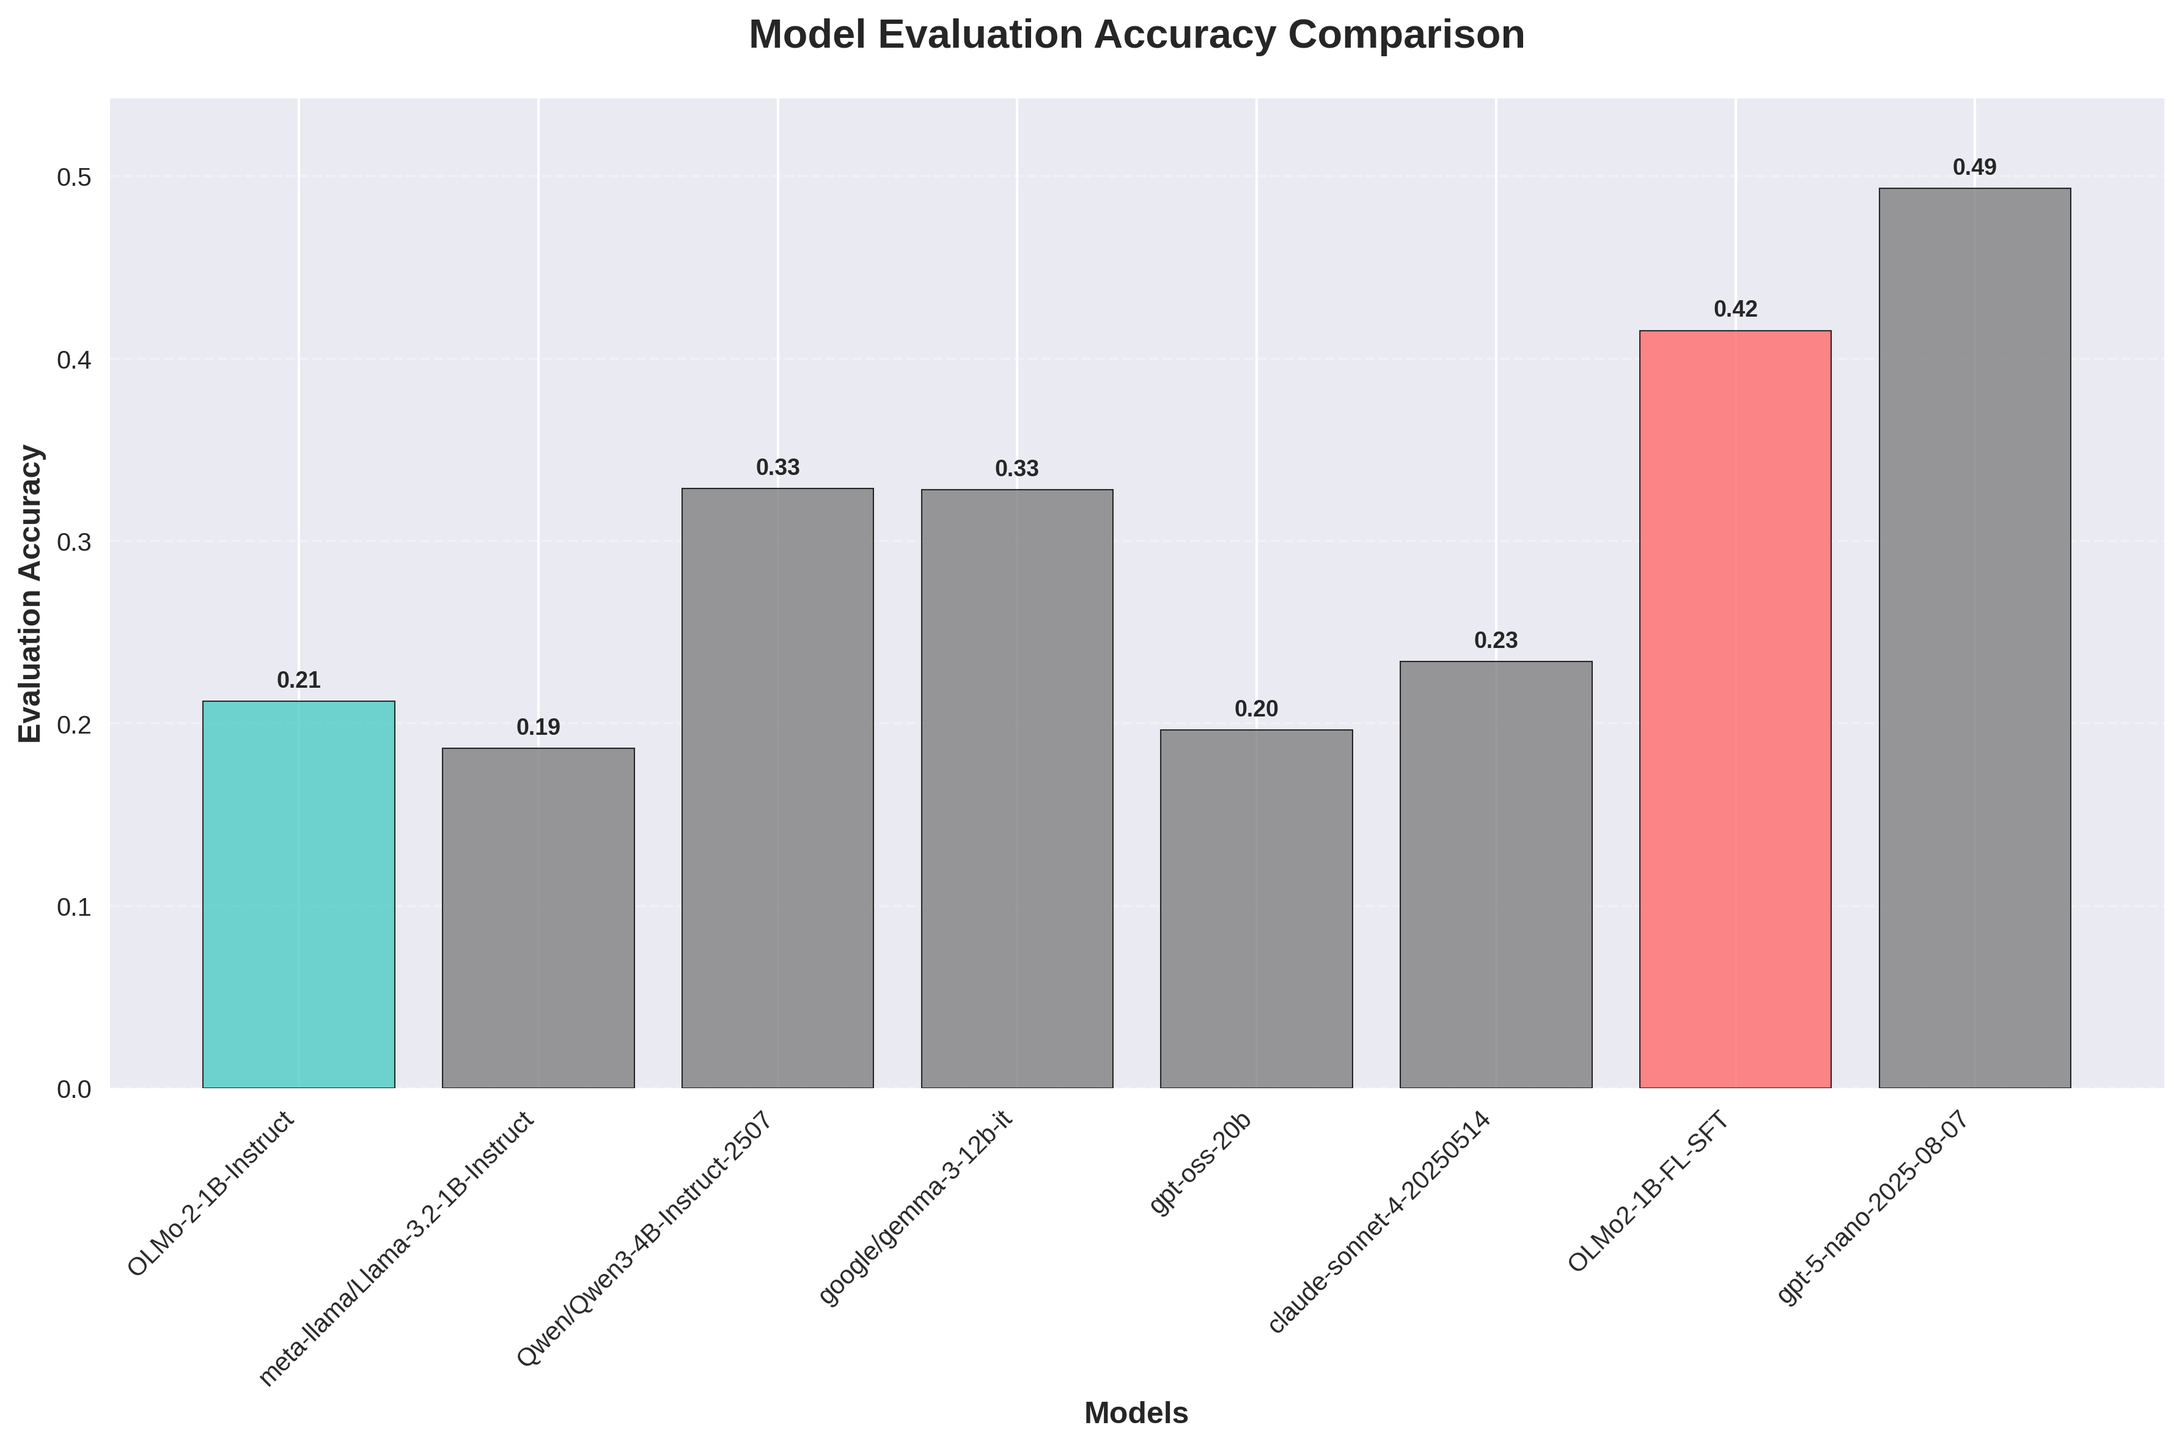
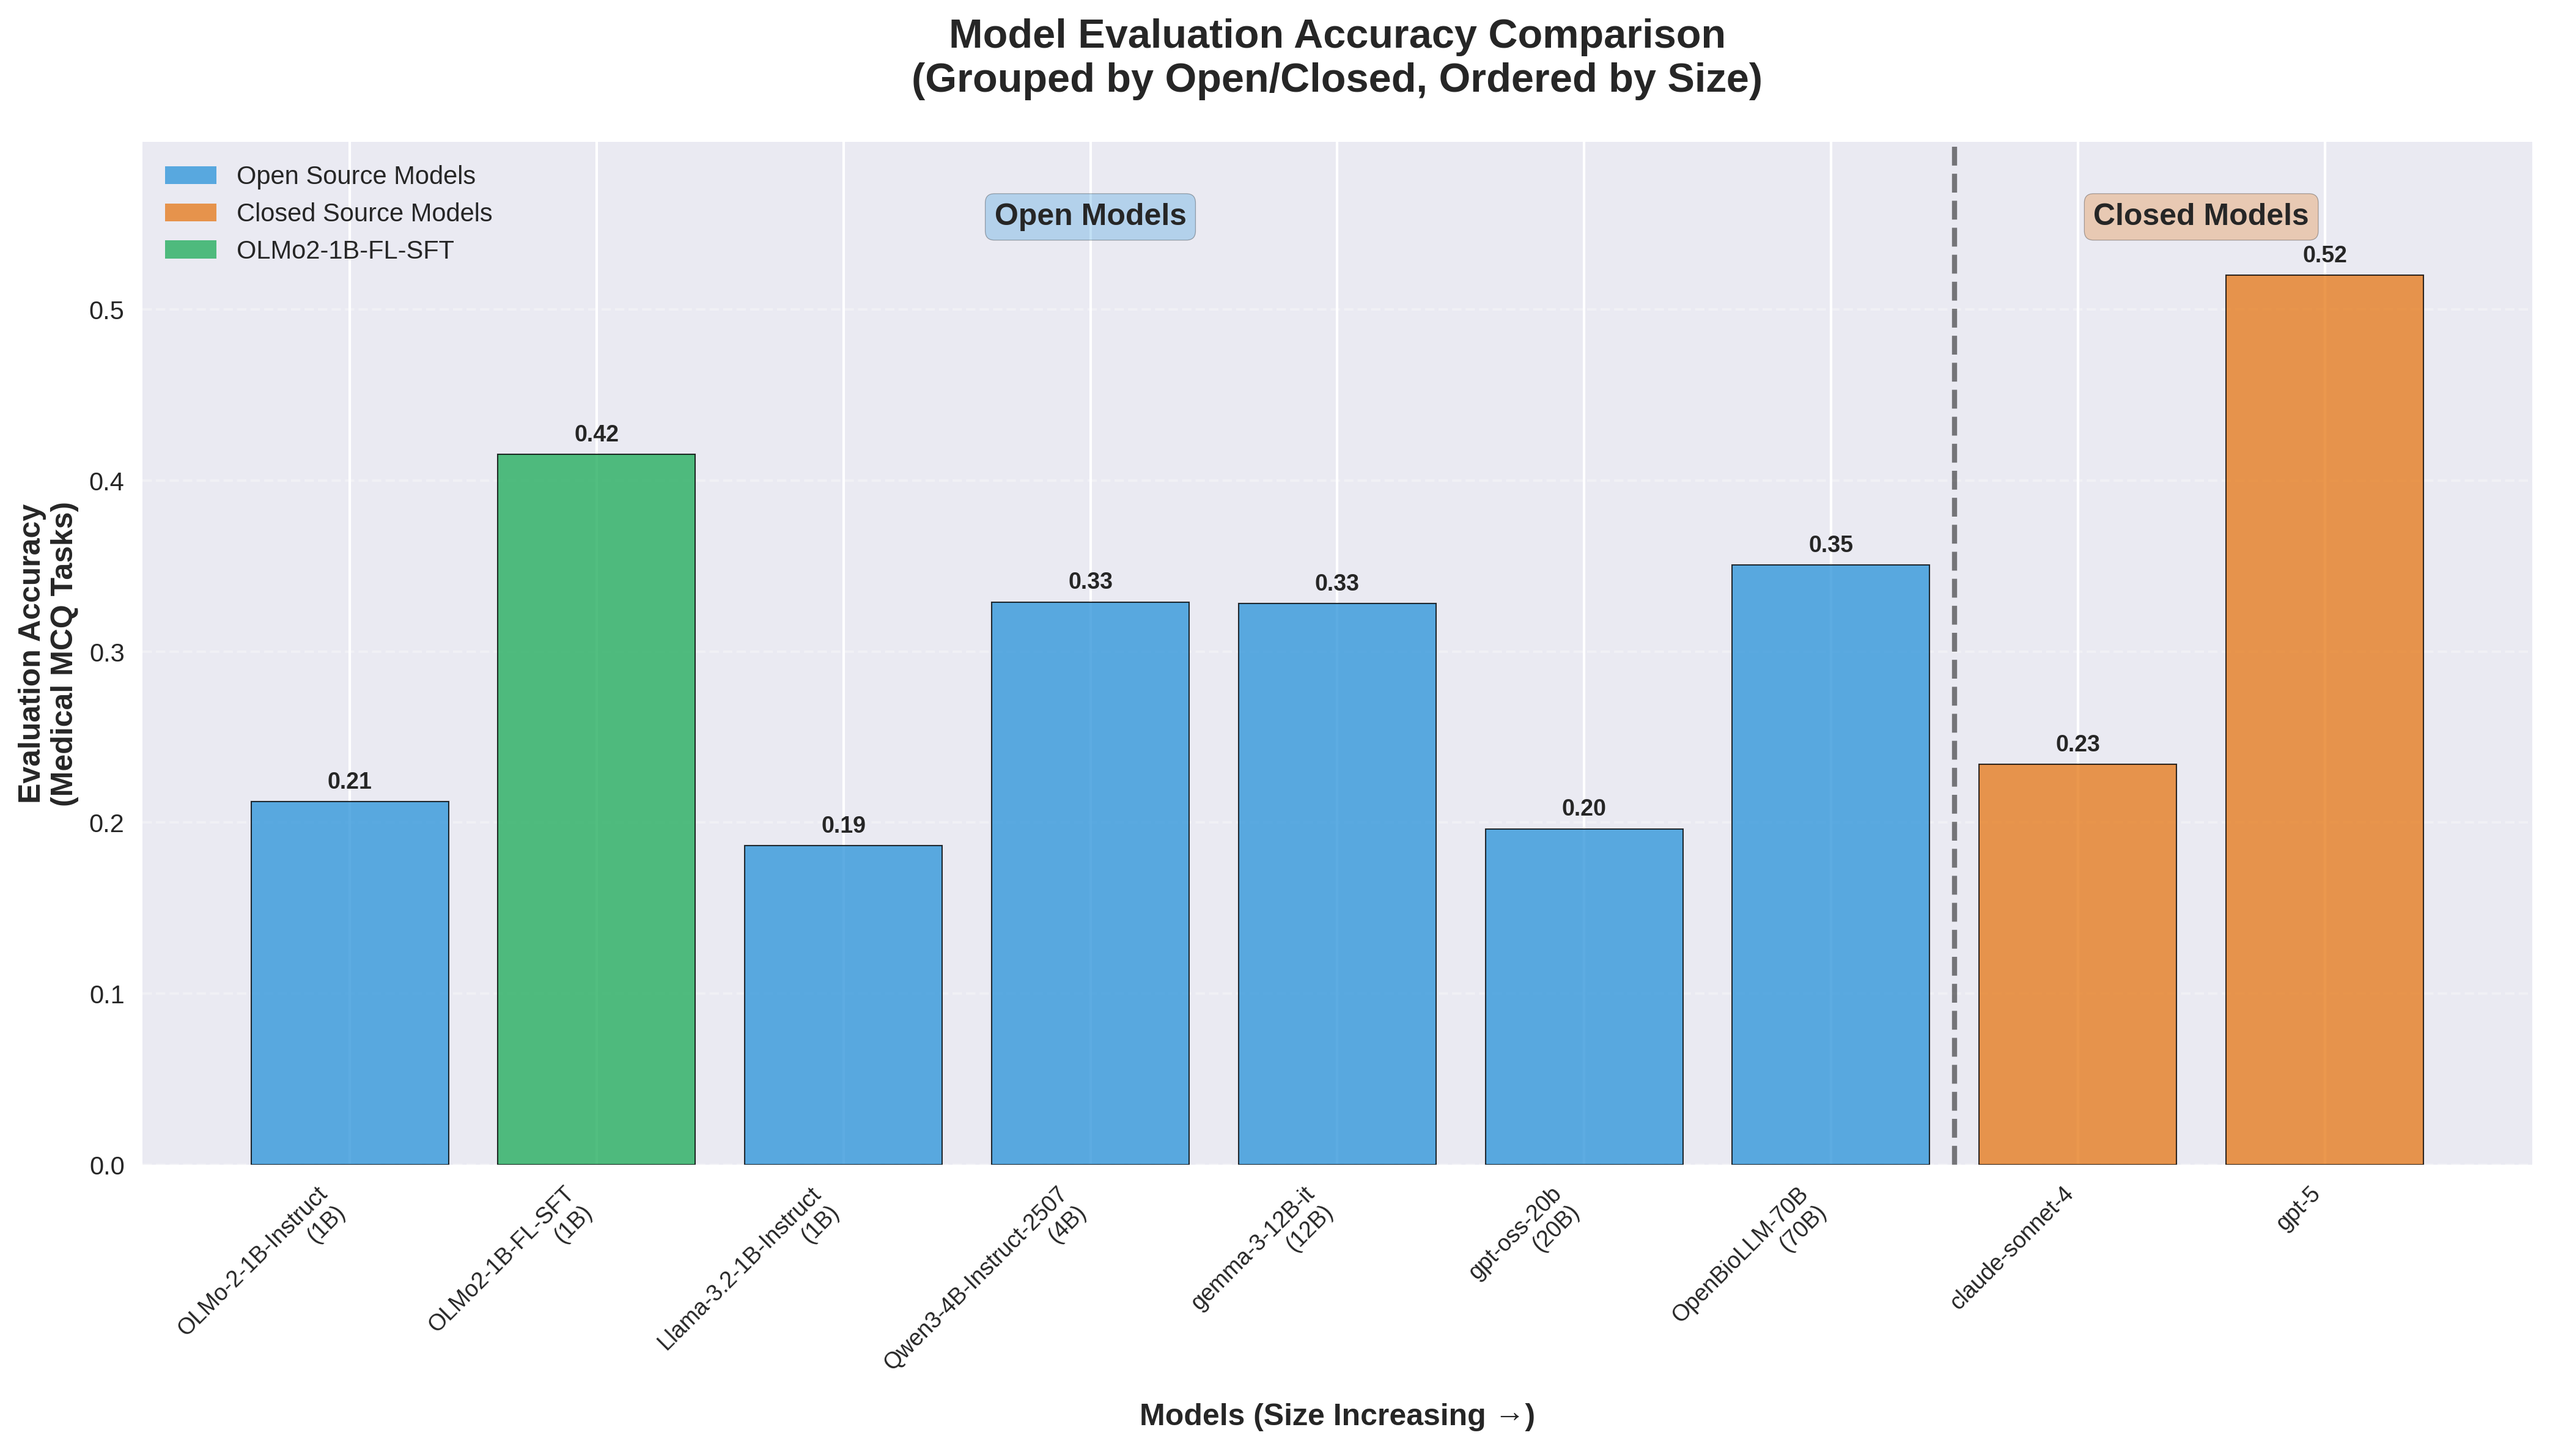
load balancing for gpus in eval script

diff --git a/examples/advanced/llm_hf/scripts/eval/evaluate_local_model_constrained.py b/examples/advanced/llm_hf/scripts/eval/evaluate_local_model_constrained.py
@@ -96,9 +96,10 @@ def evaluate_model_on_dataset(
         model = AutoModelForCausalLM.from_pretrained(
             model_name,
             torch_dtype="auto",  # Let the model use its preferred dtype (likely BFloat16)
-            device_map="auto",
-            max_memory={i: "70GB" for i in range(torch.cuda.device_count())},
+            device_map="balanced",  # Balanced memory usage across GPUs
+            max_memory={i: "78GB" for i in range(torch.cuda.device_count())},
             low_cpu_mem_usage=True,
+            # tensor_parallel=num_gpus := torch.cuda.device_count(
         )
     else:
         model = AutoModelForCausalLM.from_pretrained(
